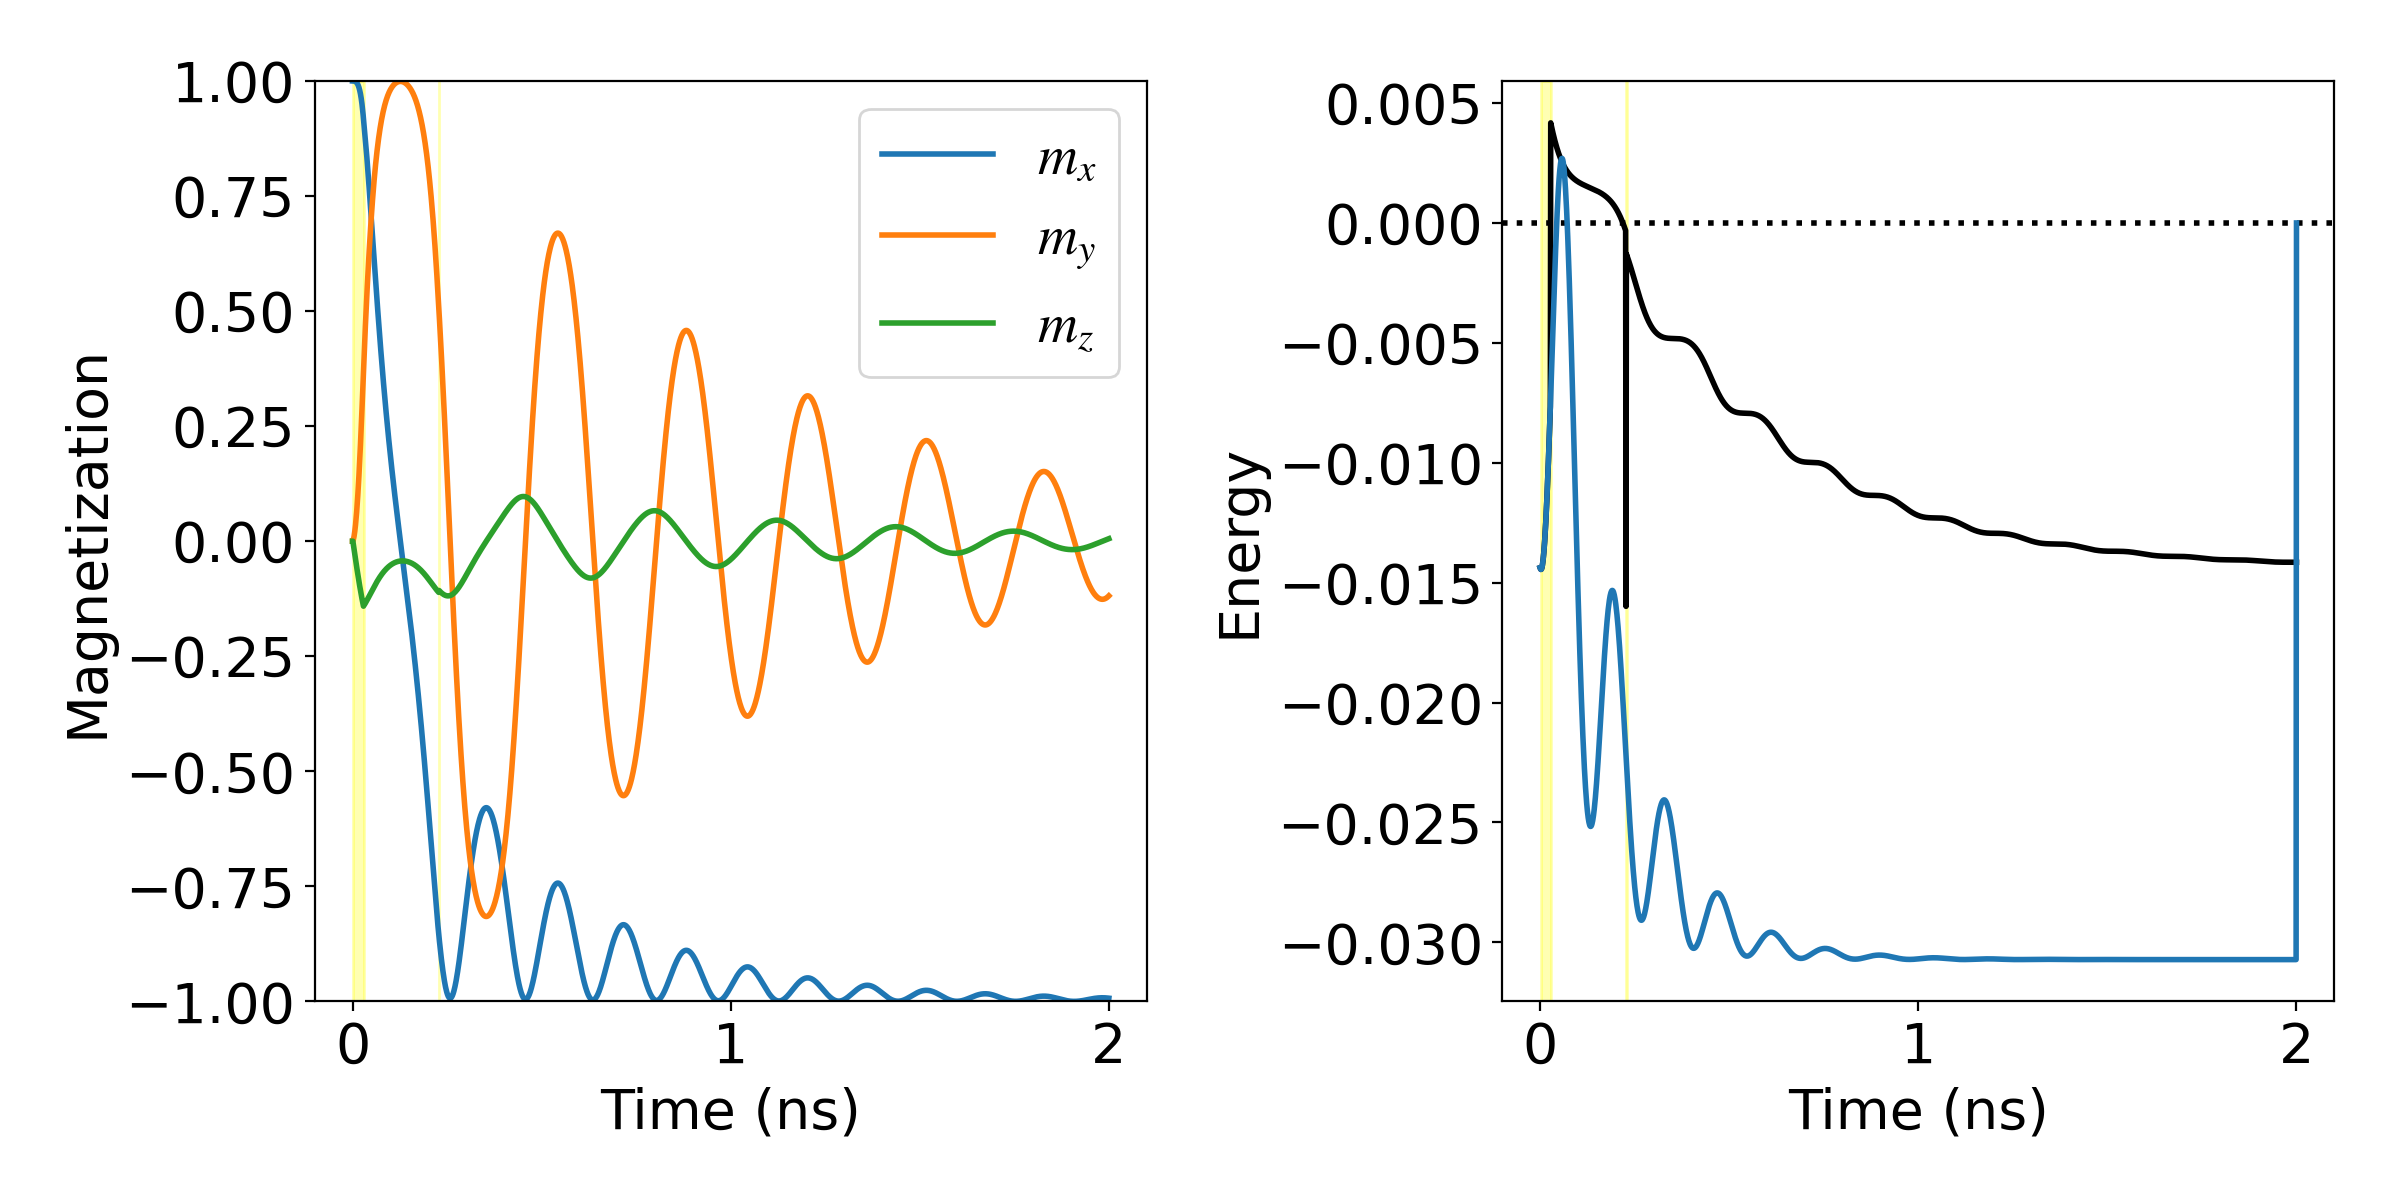
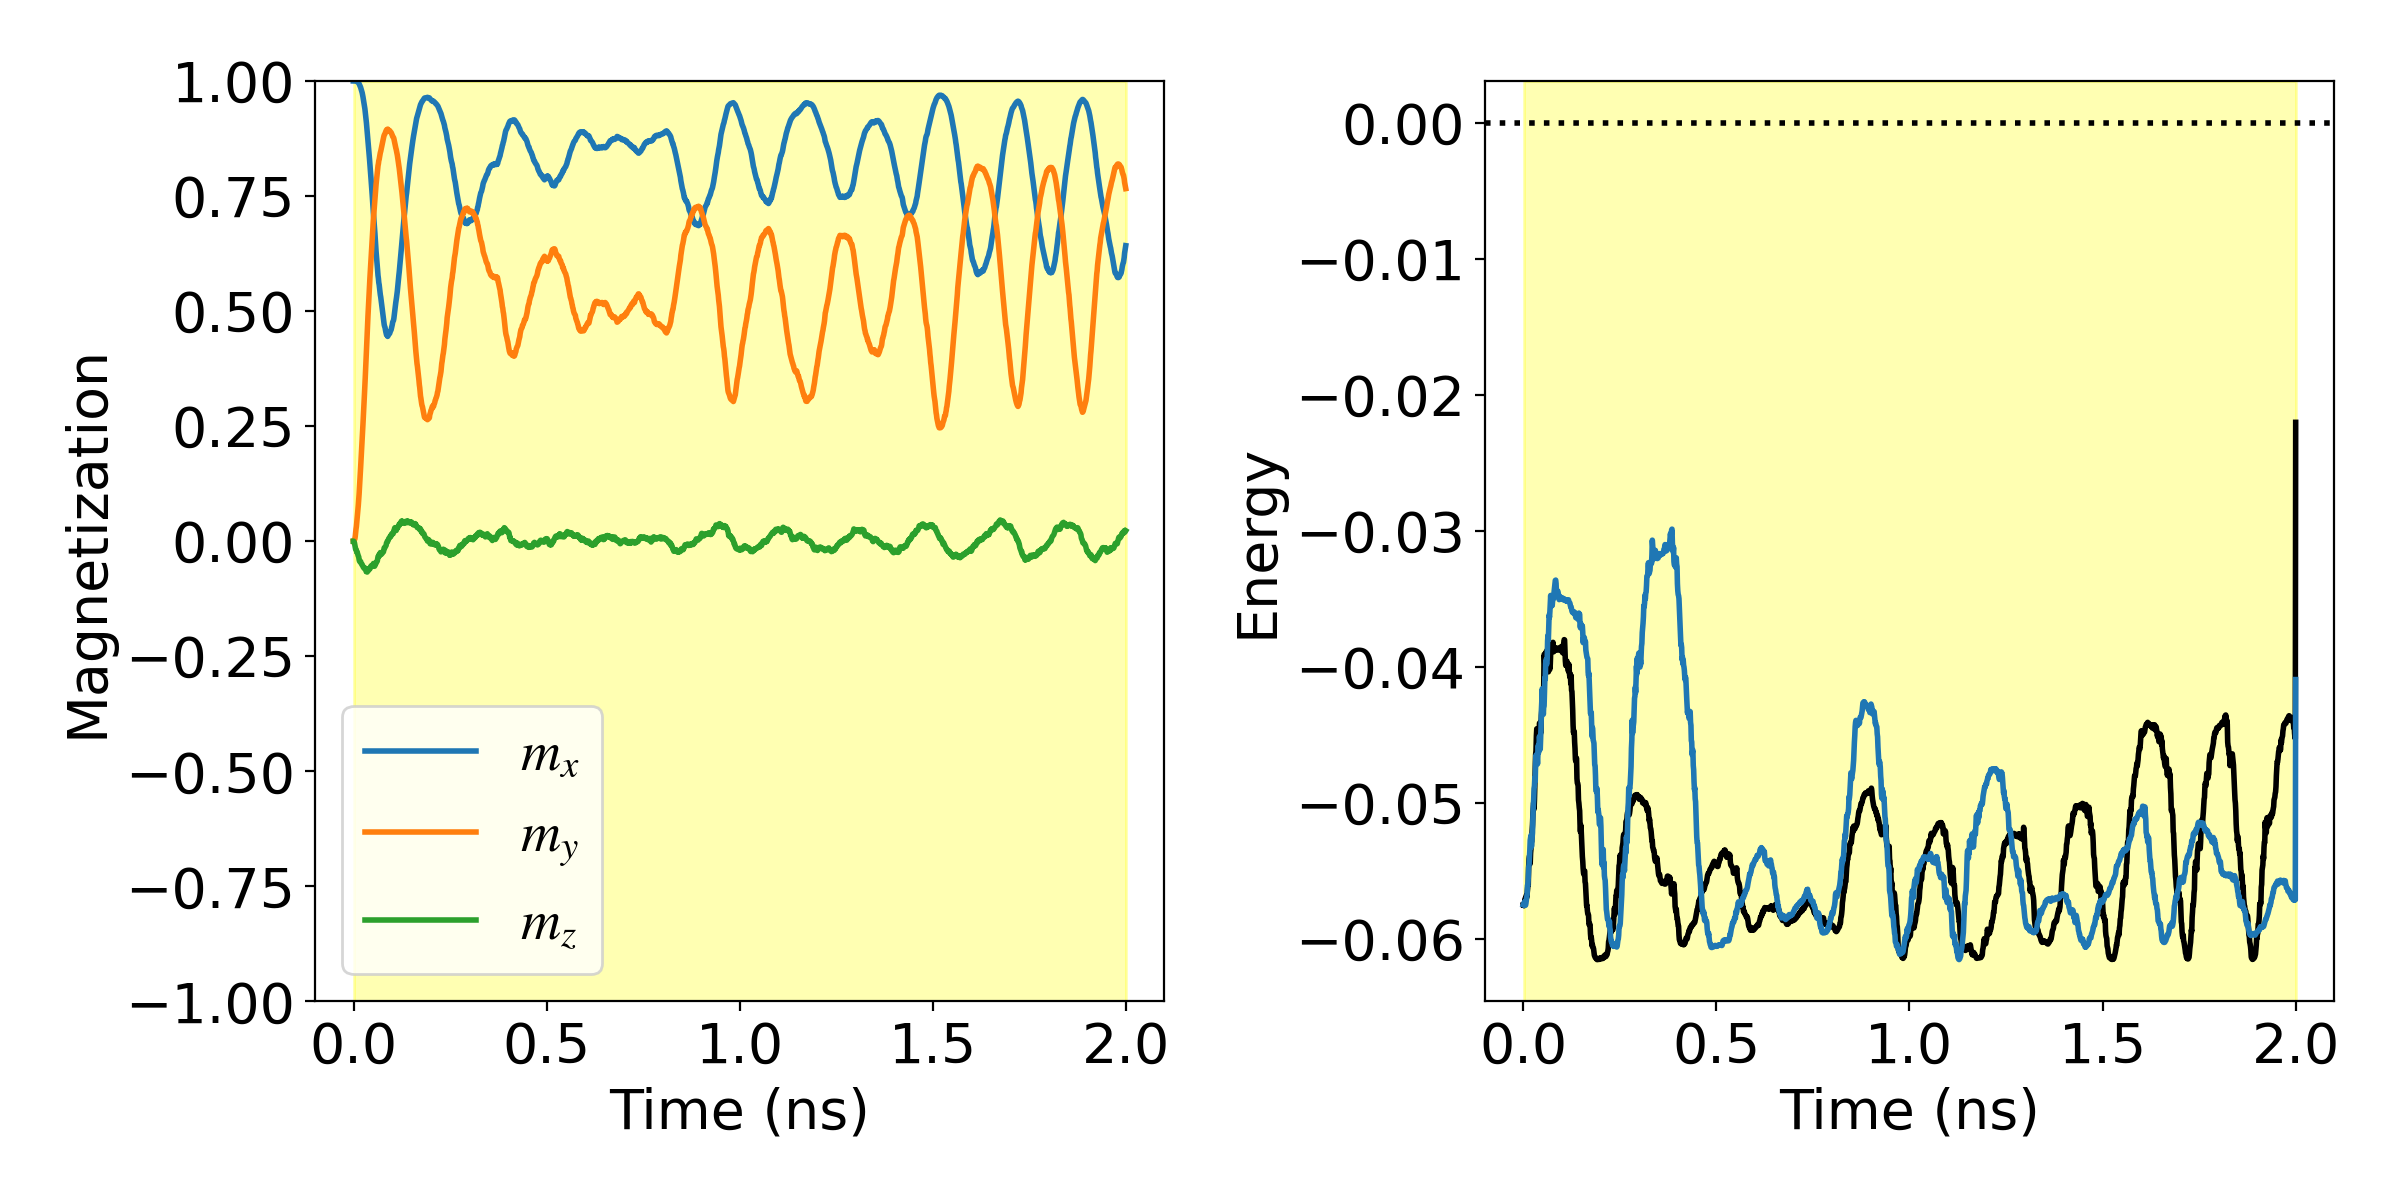
extended用の計算を追加

diff --git a/src/M-J_extended.py b/src/M-J_extended.py
@@ -24,7 +24,7 @@ m0 = np.array([1e0, 0e0, 0e0])     # 初期磁化
 episodes = 1000  # エピソード数
 record = 10  # 結果の記録間隔
 sync_interval = 20  #　ターゲットネットワークを同期する間隔
-da = 20e-12  # 行動間隔 [秒]
+da = 50e-12  # 行動間隔 [秒]
 
 directory = f"../data_extended/{size[0]*1e9:.0f}x{size[1]*1e9:.0f}x{size[2]*1e9:.0f}/aG{alphaG:.3f}/"   # 結果を保存するディレクトリ名
 
@@ -34,7 +34,7 @@ def run_agent(M, J):
     fluctuation_penalty_factor = 1e0
     current = J
     sys = s.ThermalSystem(end, dt, alphaG, beta, theta, size, d_Pt, M, H_appl, H_ani, m0, T)
-    agent = a.DQNAgent(episodes, record, sync_interval, sys, current, da, post_eval_time, post_penalty_factor, fluctuation_penalty_factor, directory)
+    agent = a.ExtendedDQNAgent(episodes, record, sync_interval, sys, current, da, post_eval_time, post_penalty_factor, fluctuation_penalty_factor, directory)
 #    comment = agent.perform(echo=False,save=False)
     comment = agent.perform(echo=False,save=True)
 #    comment = agent.perform(echo=True,save=True)
@@ -58,21 +58,13 @@ if __name__ == '__main__':
     # 以下修正可能 ------------------------------------------------------------------------
     T = 0
 
-    min_M = 500e3  # 最大飽和磁化 [A/m]
-    max_M = 2500e3 # 最小飽和磁化 [A/m]
-    dM    = 250e3  # 飽和磁化刻み幅 [A/m]
+    min_M =  750e3  # 最大飽和磁化 [A/m]
+    max_M = 1500e3  # 最小飽和磁化 [A/m]
+    dM    =  250e3  # 飽和磁化刻み幅 [A/m]
 
-#    min_J = 5e9   # [MA/cm2]
-#    max_J = 11e10 # [MA/cm2]
-#    dJ    = 5e9   # [MA/cm2]
-
-    min_J = 12e10  # [MA/cm2]
-    max_J = 25e10 # [MA/cm2]
-    dJ    = 1e10  # [MA/cm2]
-
-#    min_J =  2e10 # [MA/cm2]
-#    max_J = 20e10 # [MA/cm2]
-#    dJ    =  2e10 # [MA/cm2]
+    min_J = 1e10  # [A/m2]
+    max_J = 1e11  # [A/m2]
+    dJ    = 1e10  # [A/m2]
 
     # 以上修正可能 ------------------------------------------------------------------------
 

diff --git a/src/modules/system.py b/src/modules/system.py
@@ -396,13 +396,14 @@ class ThermalSystem(System):
 
 if __name__ == '__main__':
     # シミュレーション設定
-    T = 0 # 温度 [K]
+    T = 300 # 温度 [K]
     end = 2.0e-9  # シミュレーションの終了時間 [秒]
     dt = 1e-12  # タイムステップ [秒]
     alphaG = 0.015e0  # ギルバート減衰定数
     beta = -3e0  # field like torque と damping like torque の比
     theta = -0.25e0  # スピンホール角
     size = np.array([100e-9, 50e-9, 1e-9]) # [m] 強磁性体の寸法
+#    size = np.array([80e-9, 20e-9, 1e-9]) # [m] 強磁性体の寸法
 #    j0 = 2.64789e0 # alphaG = 0.01
 #    j0 = 3e0 # alphaG = 0.01
 #    j0 = 2.405e0 # alphaG = 0
@@ -411,7 +412,9 @@ if __name__ == '__main__':
 #    j0 = 6.35e0
 #    j0 = 7e0
     d_Pt = 5.0e-9  # Ptの厚み [m]
-    M = 750e3  # 飽和磁化　[A/m]
+#    M = 750e3  # 飽和磁化　[A/m]
+    M = 1500e3  # 飽和磁化　[A/m]
+
     H_appl = np.array([0e0, 0e0, 0e0])  # 外部磁場 [T]
     H_ani = np.array([0e0, 0e0, 0e0])  # 異方性定数 [T]
     m0 = np.array([1e0, 0e0, 0e0])  # 初期磁化

diff --git a/src/thermal.py b/src/thermal.py
@@ -10,10 +10,11 @@ from modules import system as s
 
 load_directory = "./data/100x50x1/aG0.010/M750/J05.0e10_T0/"
 #load_directory = "./data/100x50x1/aG0.010/M750/J10.0e10_T0/"
+load_directory = "./data/80x25x1/aG0.010/M750/J14.0e10_T0/"
 
 T = 300 # [K]
 end = 2.0e-9 # シミュレーションの終了時間 [秒]
-root_save_dir = "../data/thermal/"
+root_save_dir = "./data/thermal/"
 
 num_workers = os.cpu_count()
 
